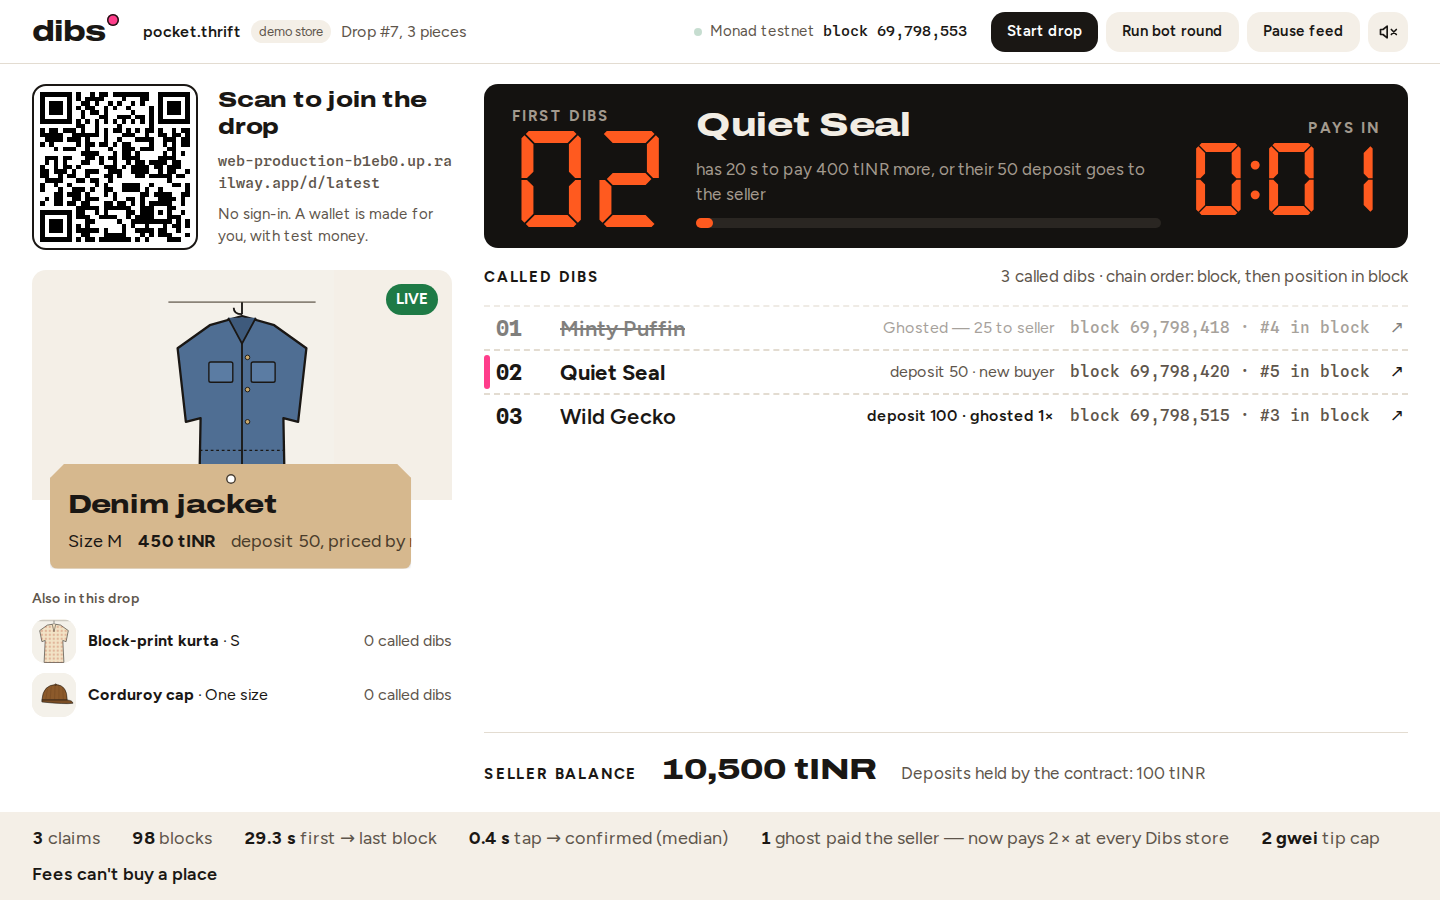
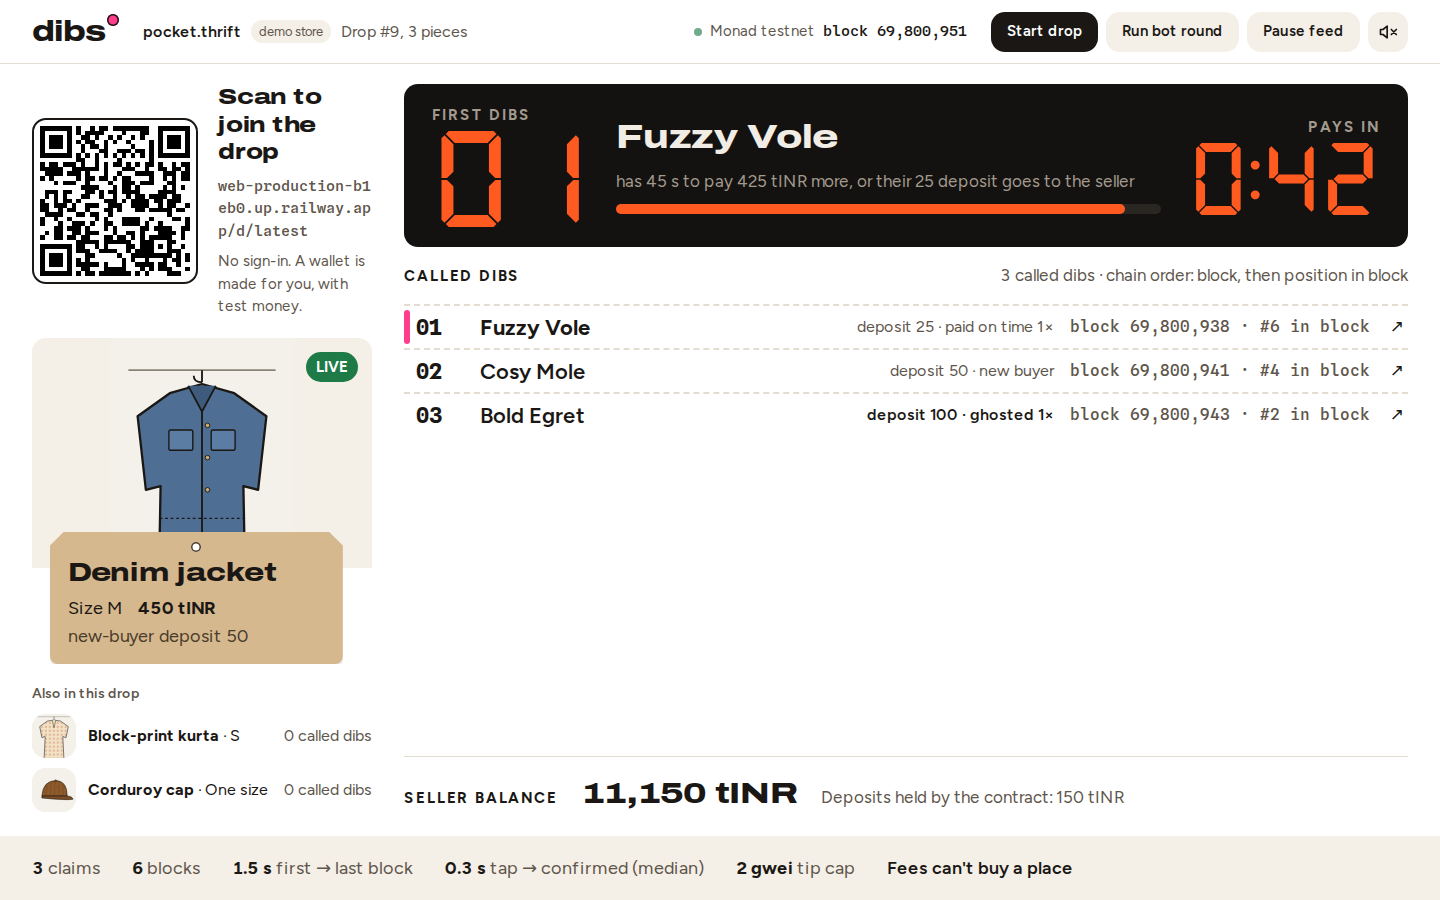
v2: e2e strings, ARCHITECTURE and README for the record; report and state

diff --git a/tests/e2e/buyer.spec.ts b/tests/e2e/buyer.spec.ts
@@ -4,7 +4,7 @@ const phone = { width: 390, height: 844 };
 const states: Record<string, RegExp> = {
   "pre-drop": /Opens in/,
   live: /DIBS/,
-  claiming: /Getting in line/,
+  claiming: /Calling dibs/,
   "in-line": /You're #4/,
   "your-turn": /PAY 400 tINR/,
   paying: /Paying/,
@@ -32,7 +32,8 @@ for (const [state, label] of Object.entries(states)) {
 test("rule line and no horizontal scroll at 320", async ({ page }) => {
   await page.setViewportSize({ width: 320, height: 640 });
   await page.goto("/d/1?state=live");
-  await expect(page.getByText(/Tap Dibs to get in line/)).toBeVisible();
+  await expect(page.getByText(/First dibs has 60 s to pay/)).toBeVisible();
+  await expect(page.getByText(/Your deposit here/)).toBeVisible();
   const overflow = await page.evaluate(() => document.documentElement.scrollWidth - window.innerWidth);
   expect(overflow).toBeLessThanOrEqual(0);
 });
@@ -41,7 +42,7 @@ test("board states render", async ({ page }) => {
   await page.setViewportSize({ width: 1440, height: 900 });
   for (const s of ["waiting", "live", "rolled", "sold", "disconnected"]) {
     await page.goto(`/board/1?state=${s}`);
-    await expect(page.getByText(/NOW HOLDING|SOLD TO/).first()).toBeVisible();
+    await expect(page.getByText(/FIRST DIBS|SOLD TO/).first()).toBeVisible();
     await expect(page.getByText("Scan to join the drop")).toBeVisible();
   }
 });

diff --git a/.prod-build/reports/V2-record.md b/.prod-build/reports/V2-record.md
@@ -1,0 +1,14 @@
+STATUS: DONE
+COMMITS: fa4396a..HEAD — v2: shared buyer record prices every deposit; copy re-aimed from "fair queue" to "a BOOK comment with a deposit behind it"
+WHY: the user's read was that v1 "screams BookMyShow on blockchain". The planning critic had said the same ("off chain, this is a reservation queue with a no-show fee") and Pune V1 already had two ticketing entries (Monoken, BlitzSeat). The part ticketing doesn't have is the buyer who commits and vanishes; v2 makes that the product.
+FILES: contracts/src/DropHouse.sol (paidCount, ghostCount, depositFor, per-claim deposit, Claimed carries deposit, unlimited-allowance permits), contracts/test/DropHouse.t.sol (test_trackRecord), contracts/script/DeployHouse.s.sol, lib/record.ts, lib/abi/DropHouse.json, deployments/testnet.json, lib/{indexer,stream-types,tx,bots,chain,useBurner,fixtures}.ts, app/api/wallet/route.ts, app/d/[drop]/{Buyer.tsx,ticket/Ticket.tsx}, app/board/[drop]/Board.tsx, components/{LineRow,LedPanel,StatsStrip,JudgeCard}.tsx, app/{page,layout}.tsx, README.md, ARCHITECTURE.md, tests/*
+EVIDENCE: E0039 forge 9/9 (incl. test_trackRecord: paid → half, ghosted → double, per-claim deposit is what moves); unit 18/18; E0041 e2e 14/14 on Railway; E0040 observed on Railway: A paid, B ghosted → next drop A puts down 25, B 100, a new buyer 50; returning bots 50 → 100. DropHouse v2 0xb6517ec3d3b676f0ed2e278ef9955fba98352a75 verified (Sourcify "perfect"), deploy block 69796067.
+RULINGS:
+- Standing = paid − ghosted (a later payment redeems a ghost); 0 → base, +1 → ½, ≥+2 → ¼, −1 → 2×, −2 → 3×, ≤−3 → 4×, capped at the price.
+- Sybil: a fresh wallet escapes a bad record but only gets the stranger price, so the record that matters is the good one. Said in the README's honest limits.
+- No one attests a ghost: the record is written only by the contract's own pay/advance outcomes.
+- Permits grant one unlimited tINR allowance to DropHouse (test money) so a record-priced deposit never mismatches a signed amount.
+- Bots return across rounds (keys kept in server memory) so the room sees their deposits double.
+- v1 DropHouse (0x119d…302f) left deployed; README says it is superseded.
+MEMORY: new failure: a phone can show "time ran out" a moment before the chain records the ghost — compute the post-ghost deposit without waiting for the event.
+CONCERNS / BLOCKER: problem evidence for Instagram thrift specifically is still a hypothesis (COD refusal data is from a payments vendor); run the 10-account check. Bot keys are lost on a redeploy (first round after a deploy starts fresh).

diff --git a/ARCHITECTURE.md b/ARCHITECTURE.md
@@ -1,5 +1,5 @@
 # Architecture — Dibs
-Mode: hackathon. Last structural change: 2026-10-10 (planning, before the build block).
+Mode: hackathon. Last structural change: 2026-10-10 15:40 IST — DropHouse v2: a shared buyer record prices every deposit (re-aim from "fair queue" to "a BOOK comment with a deposit behind it").
 
 ## Overview
 A seller shares a drop link; buyers' phones claim pieces on Monad testnet with their own burner wallets; one Next.js
@@ -18,7 +18,15 @@ the keeper that rolls a piece to the next claimant when a pay window ends. The c
 | Send relay `/api/send` | accept a buyer's raw signed tx, forward to RPCs round-robin with retry | viem `sendRawTransaction` | spread load over public RPC limits | all RPCs fail → 502 with reason; phone retries the same signed tx |
 | Buyer, board, seller pages | UI-SPEC S0–S3 | React 19, Tailwind 4, Motion, qrcode.react | the product | stream lost → greyed last state + reconnect |
 
-## Contract interface (the agreed boundary; T02 writes it first)
+## Contract interface (v2, deployed 0xb6517ec3d3b676f0ed2e278ef9955fba98352a75; the block below is v1 as planned)
+v2 changes, all in `contracts/src/DropHouse.sol`:
+- `mapping(address => uint32) paidCount, ghostCount` — the shared record, written only by `pay` (paid in time) and `advance` (window lapsed).
+- `depositFor(dropId, buyer) view returns (uint96)` — standing = paid − ghosted: 0 → the drop's deposit, +1 → half, ≥ +2 → a quarter, −1 → 2×, −2 → 3×, ≤ −3 → 4× (capped at the price).
+- `Claim` stores the `deposit` each buyer put down; pay, forfeit and refund move that amount.
+- `event Claimed(dropId, piece, buyer, position, deposit)` — the deposit is in the event, so the board shows each caller's price.
+- `claimWithPermit` / `payWithPermit` take one unlimited tINR allowance for DropHouse (test money); a used or front-run permit is harmless.
+- `claimPos(dropId, piece, buyer)` (position + 1) replaces the `claimed` mapping; `claimed()` remains as a view.
+
 ```solidity
 uint256 public constant MAX_TIP = 2 gwei;                    // tx.gasprice - block.basefee must be <= MAX_TIP
 function createDrop(address token, uint64 startsAt, uint32 payWindow, uint96 price, uint96 deposit, uint16 pieces) returns (uint256 dropId)

diff --git a/.prod-build/state.md b/.prod-build/state.md
@@ -1,5 +1,5 @@
 # Build state - dibs
-Updated: 2026-10-10 14:52 IST | mode: hackathon | phase: BUILT and DEPLOYED on Railway
+Updated: 2026-10-10 16:00 IST | mode: hackathon | phase: v2 (shared buyer record) BUILT and DEPLOYED on Railway
 
 ## Now
 - Built: contracts (deployed + verified), server (WS indexer, SSE + polling fallback, wallet funding, relay, keeper, admin, bot round), buyer/board/seller/landing/ticket pages, e2e.
@@ -8,10 +8,13 @@ Updated: 2026-10-10 14:52 IST | mode: hackathon | phase: BUILT and DEPLOYED on R
 - Backup take: ~/dibs-takes/backup-1.mp4 (63.8 s).
 
 ## Addresses (Monad testnet 10143)
-DropHouse 0x119d4dd7b665717d328dc059daa98b85e7c8302f · tINR 0x9266e65380e7f1bd5fc64a9a4f4fb9f1a6acf27c · Funder 0x3f3f1e5fb18c95736f089776352d15e9bc4149f4 · deploy block 69775604 · operator 0xB99CE2Cc7E3fDaf405fa4f807642B39A3590d7B1
+DropHouse v2 0xb6517ec3d3b676f0ed2e278ef9955fba98352a75 (v1 0x119d…302f superseded) · tINR 0x9266e65380e7f1bd5fc64a9a4f4fb9f1a6acf27c · Funder 0x3f3f1e5fb18c95736f089776352d15e9bc4149f4 · deploy block 69796067 · operator 0xB99CE2Cc7E3fDaf405fa4f807642B39A3590d7B1
 
 ## What worked (evidence)
 E0018-21 forge 8/8 · E0022-23 deploy+verify · E0024-29 server tests · E0030 5 live phones · E0031 100-bot round · E0032 pay/withdraw · E0033 e2e 14/14 · E0034 backup take
+
+## Re-aim (15:25–16:00 IST)
+- v1 read as "BookMyShow on blockchain". v2: every outcome goes on the buyer's record (paidCount / ghostCount in DropHouse); depositFor() prices each call: paid on time halves it, ghosting doubles it, at every drop. One-liner, board, phone, README re-worded (no ticket / queue / token-board language). Evidence E0039–E0041.
 
 ## What failed (do not repeat)
 - viem watchBlocks over WS on Monad → onBlock(undefined): use raw eth_subscribe.

diff --git a/README.md b/README.md
@@ -2,7 +2,7 @@
 
 **Dibs: a 'BOOK' comment with a deposit behind it. Ghost a seller and it pays them; pay on time and your deposit shrinks at every Dibs store.**
 
-![The Dibs board live on Railway: #1 torn off as a no-show (50 to the seller), NOW HOLDING 02, every place in line with its block number](docs/board.png)
+![The Dibs board live on Railway: three buyers called dibs on one jacket and each put down a deposit priced by their own record — 25 (paid on time before), 50 (new buyer), 100 (ghosted before) — with the block each call landed in](docs/board.png)
 
 **Live:** [https://web-production-b1eb0.up.railway.app](https://web-production-b1eb0.up.railway.app) · **Board (projector):** [/board/latest](https://web-production-b1eb0.up.railway.app/board/latest) · **Phone:** [/d/latest](https://web-production-b1eb0.up.railway.app/d/latest) (Railway, one instance).
 
